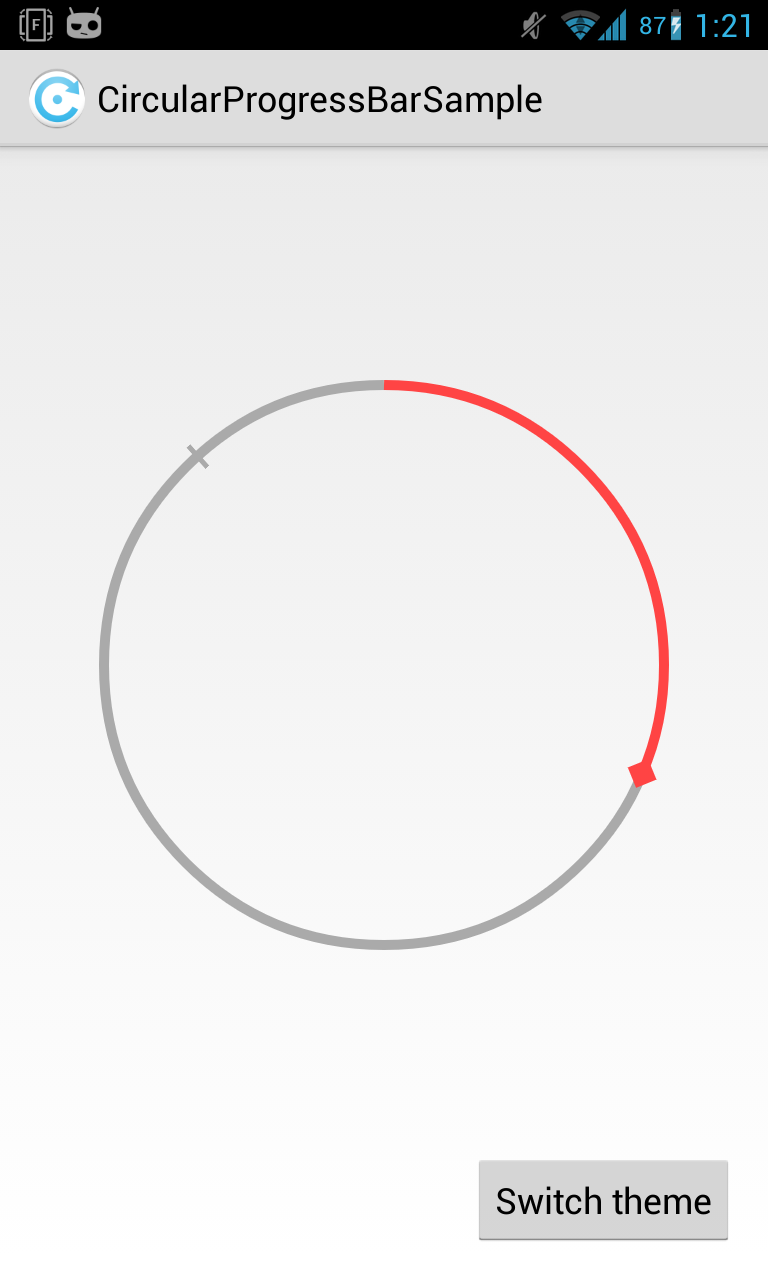
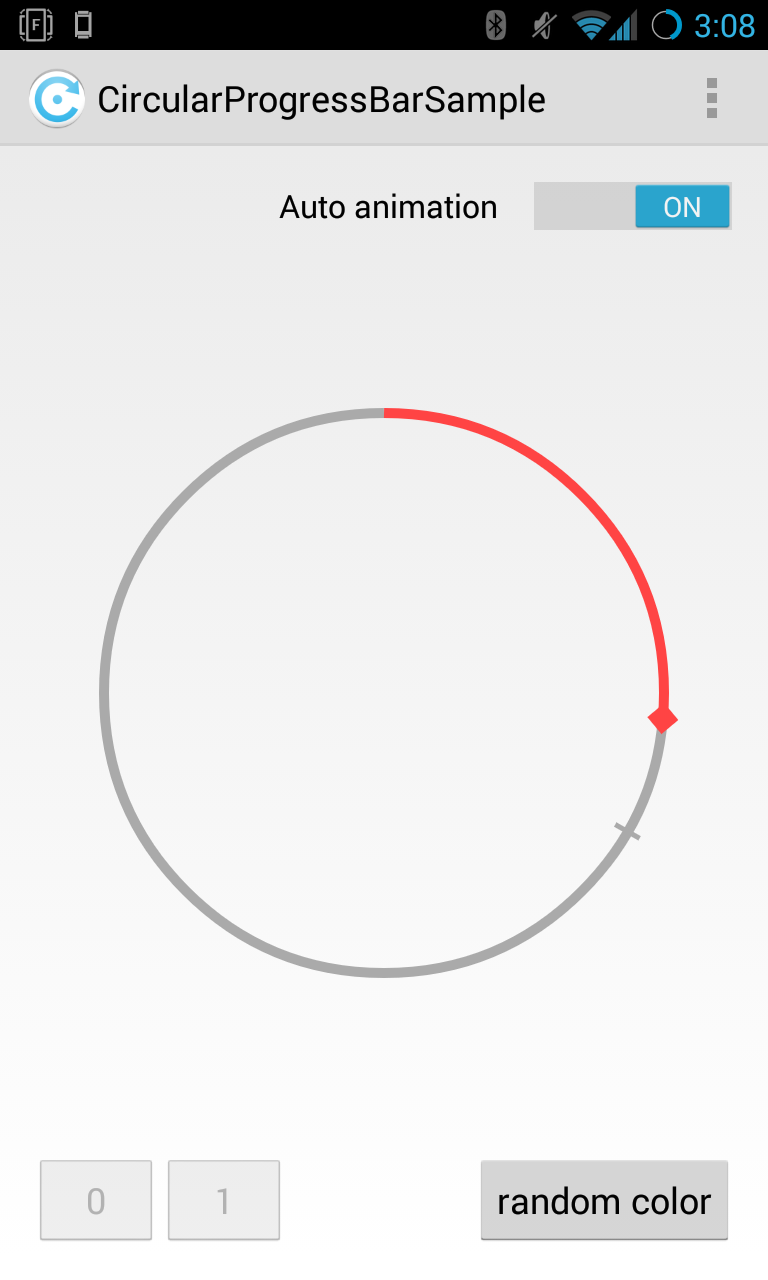
Updated Screenshots for version 1.1

diff --git a/README.md b/README.md
@@ -69,7 +69,14 @@ Don't forget to add a default style to your AppTheme
 
 I added two simple styles `@style/CircularProgressBar` and `@style/CircularProgressBarLight` to give you a quick start. You can see both styles in action in the sample Project
 
-After you wrote your own style you might restart your Eclipse again as I mentioned before. The ADT Plugin really has some troubles working with Android Libraries and Styles 
+After you wrote your own style you might restart your Eclipse again as I mentioned before. The ADT Plugin really has some troubles working with Android Libraries and Styles
+
+Of cause can you change the color at runtime. Here are some examples from the sample app:
+
+<div align="center">
+  <img height="400px" src="https://raw.github.com/passsy/android-HoloCircularProgressBar/master/raw/screenshot3.png"/>
+  <img height="400px" src="https://raw.github.com/passsy/android-HoloCircularProgressBar/master/raw/screenshot4.png"/>
+</div>
 
 ## Bugs
 
